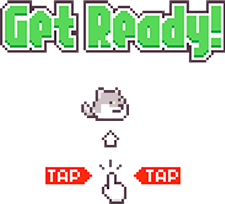
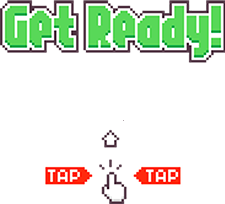
fix lỗi lnk2019, render game ready, sửa lại logic mức rank và điểm

Changed region(s): [[0.3422, 0.4118, 0.5911, 0.6176]]

diff --git a/Game_LTNC/main.cpp b/Game_LTNC/main.cpp
@@ -11,14 +11,14 @@ using namespace std;
 const int FPS = 60;
 const int frameDelay = 1000 / FPS;
 
-
 int main(int argc, char* argv[]) {
-	Uint32 frameStart;
-	int frameTime;
+    Uint32 frameStart;
+    int frameTime;
     game g;
     bool isMenu = 0;
     bool isPause = 0;
     bool isDark = 0;
+    gTexture g2;
 
     while (!g.isQuit())
     {
@@ -27,7 +27,7 @@ int main(int argc, char* argv[]) {
         if (g.isDie())
         {
             if (isMenu) {
-               // g.bird.updateFrame();
+                // g.bird.updateFrame();
                 g.bird.render();
             }
             g.userInput.Type = game::input::NONE;
@@ -61,6 +61,7 @@ int main(int argc, char* argv[]) {
                     g.threat.init();
                     g.bird.init();
                     g.bird.render();
+                    g.renderReady();
                     if (g.userInput.Type == game::input::PLAY)
                     {
                         g.Restart();
@@ -90,7 +91,7 @@ int main(int argc, char* argv[]) {
                 g.userInput.Type = game::input::NONE;
             }
             g.renderBackground();
-            //g.threat.update();
+            if (g2.score > 20) g.threat.update();
             g.pipe.render();
             g.threat.render();
             g.land.render();
@@ -103,7 +104,7 @@ int main(int argc, char* argv[]) {
                 g.bird.updateThreat(g.threat.getPosX(), g.threat.getPosY());
                 g.bird.update(g.getPipeWidth(), g.getPipeHeight());
                 g.pipe.update();
-                g.threat.update();
+                if (g2.score > 20) g.threat.update();
                 g.land.update();
                 g.pause();
             }
@@ -121,7 +122,7 @@ int main(int argc, char* argv[]) {
                     {
                         isPause = 0;
                     }
-                
+
                     g.userInput.Type = game::input::NONE;
                 }
             }

diff --git a/Game_LTNC/CommonFunc.h b/Game_LTNC/CommonFunc.h
@@ -42,14 +42,14 @@ public:
 	static const int SCREEN_HEIGHT = 625;
 	static const int SCREEN_WIDTH = 350;
 	static const int LAND_HEIGHT = 140;
-	static const int PIPE_DISTANCE = 222;
+	static const int PIPE_DISTANCE = 250;
 	static const int TOTAL_PIPE = 4;
-	static const int PIPE_SPACE = 155;
+	static const int PIPE_SPACE = 170;
 	static const int BIRD_WIDTH = 60;
 	static const int BIRD_HEIGHT = 40;
 	static const int THREAT_HEIGHT = 50;
 	static const int THREAT_WIDTH = 150;
-
+		
 	static bool quit;
 	static bool die;
 	static int score;

diff --git a/Game_LTNC/Pipe.cpp b/Game_LTNC/Pipe.cpp
@@ -47,11 +47,11 @@ void pipe::update()
             }
             else
             {
-                if (score >= 0 && score <= 20)
+                if (score >= 0 && score <= 10)
                 {
                     posPipe[i].x -= 2;
                 }
-                else if (score <= 50)
+                else if (score <= 40)
                 {
                     posPipe[i].x -= 3;
                 }

diff --git a/Game_LTNC/Bird.cpp b/Game_LTNC/Bird.cpp
@@ -5,8 +5,8 @@
 bool bird::init()
 {
     string bird_path = "assets/image/bird2.png";
-    posBird.getPos(75, SCREEN_HEIGHT / 2 - 10);
-    ahead = 0;  
+    posBird.getPos(140, SCREEN_HEIGHT / 2 - 50);
+    ahead = 0;
     angle = 0;
     if (isNULL())
     {

diff --git a/Game_LTNC/Game.cpp b/Game_LTNC/Game.cpp
@@ -379,3 +379,11 @@ void game::renderMedal()
 
 	image.free();
 }
+
+void game::renderReady()
+{
+	gTexture image;
+	image.Load("assets/image/message.png", 1);
+	image.Render((SCREEN_WIDTH - image.getWidth()) / 2, 180);
+	image.free();
+}

diff --git a/Game_LTNC/Threat.cpp b/Game_LTNC/Threat.cpp
@@ -2,7 +2,7 @@
 #include <random>
 
 bool threat::init()
-{
+{   
     pos_x = SCREEN_WIDTH;
     string back_path = "assets/image/penguin.png";
     if (isNULL())

diff --git a/Game_LTNC/Game.h b/Game_LTNC/Game.h
@@ -74,6 +74,8 @@ public:
 
 	void renderMedal();
 
+	void renderReady();
+
 private:
 	int bestScore;
 };

diff --git a/Game_LTNC/Threat.h b/Game_LTNC/Threat.h
@@ -20,8 +20,6 @@ public:
 
     void update();
 
-    threat();
-
 private:
     int pos_x, pos_y;
 };
